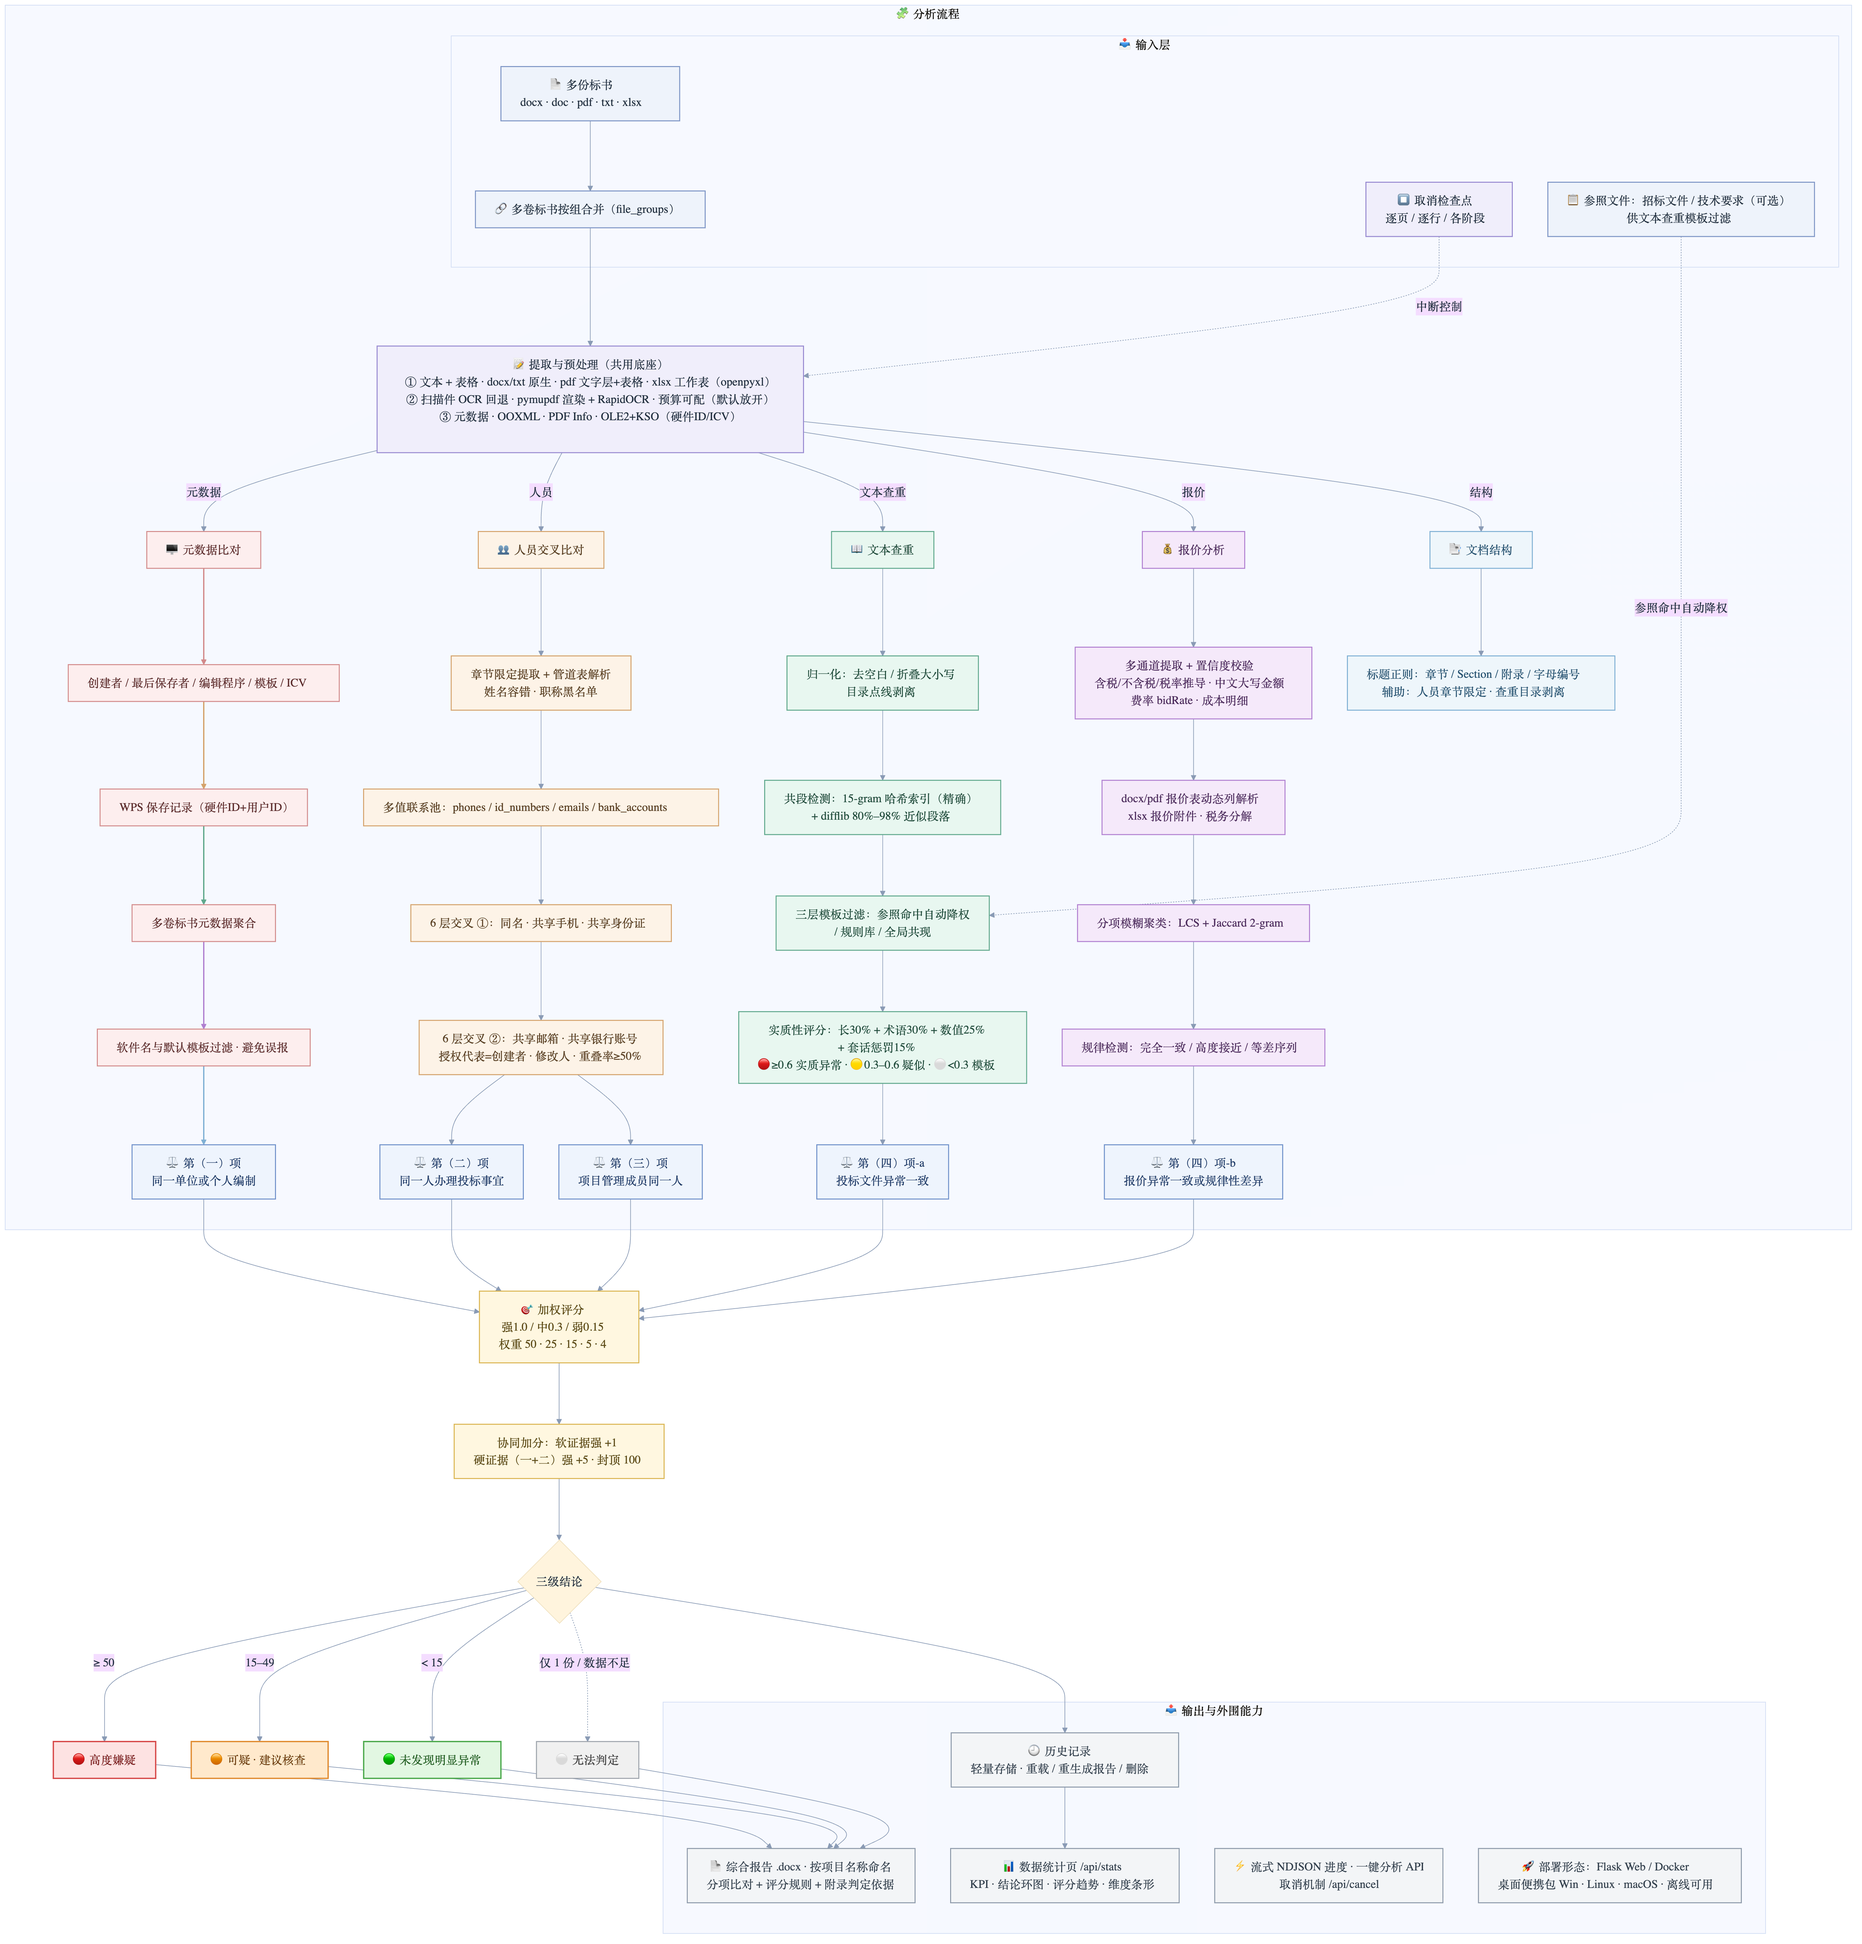
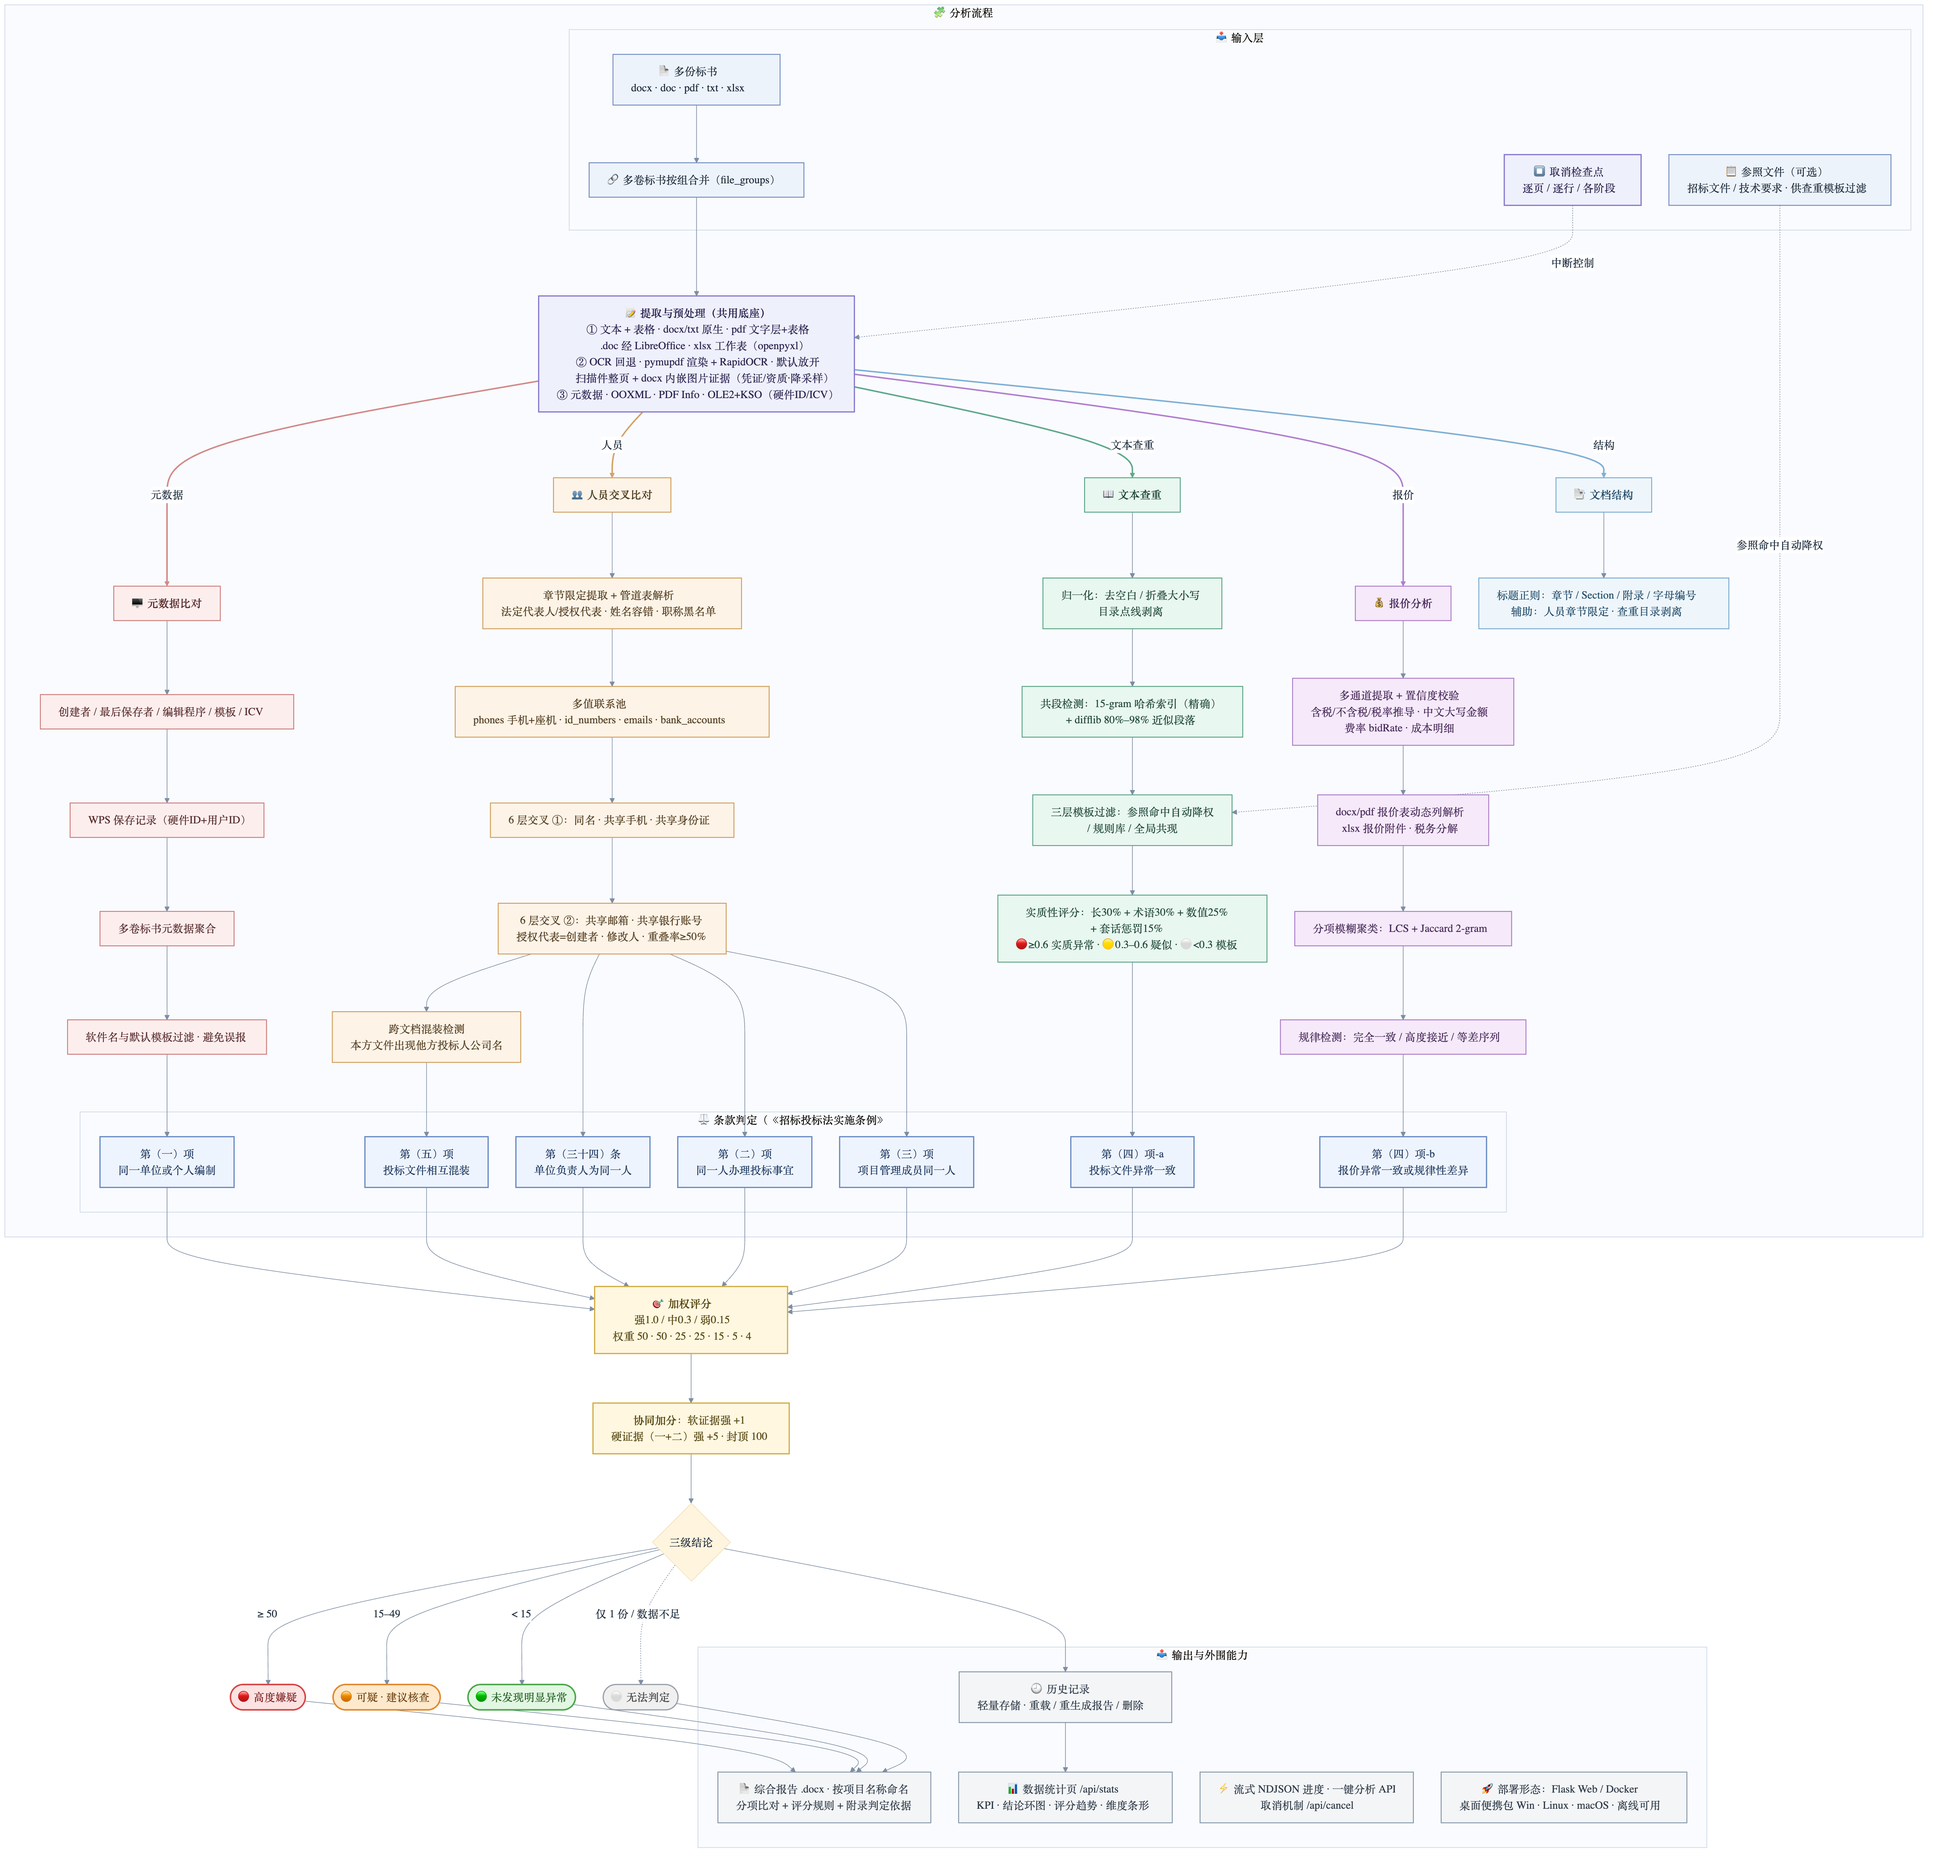
docs: 整体流程图重绘，对齐 v2.1.1 判定逻辑
- 条款判定 5→7 条：新增第（三十四）条（单位负责人同一人，权重50）
  与第（五）项（投标文件混装，权重25），权重串更新为 50·50·25·25·15·5·4
- 人员分支补混装检测节点；联系池标注手机+座机；提取补法定代表人/授权代表
- 提取底座补 .doc 经 LibreOffice 与 docx 内嵌图片证据 OCR
- 版式重画：条款归组簇、分支表头加粗、结论胶囊形、修正长行折行

diff --git a/output/整体流程图mermaid.md b/output/整体流程图mermaid.md
@@ -1,87 +1,97 @@
 ```mermaid
-%%{init: {"theme":"base","themeVariables":{"fontFamily":"PingFang SC, Microsoft YaHei, sans-serif","fontSize":"18px","lineColor":"#8a9bb5","primaryTextColor":"#22303f"},"flowchart":{"nodeSpacing":55,"rankSpacing":95,"curve":"basis","htmlLabels":true,"markdownAutoWrap":false,"wrappingWidth":600}}}%%
+%%{init: {"theme":"base","themeVariables":{"fontFamily":"PingFang SC, Hiragino Sans GB, Microsoft YaHei, sans-serif","fontSize":"18px","lineColor":"#7d8da3","primaryTextColor":"#1e2c3c","edgeLabelBackground":"#ffffff","clusterBkg":"#fafbfe","clusterBorder":"#c6d2e2"},"flowchart":{"nodeSpacing":46,"rankSpacing":82,"curve":"basis","htmlLabels":true,"markdownAutoWrap":false,"wrappingWidth":600}}}%%
 flowchart TD
     subgraph ANALYSIS["🧩 分析流程"]
         subgraph IN["📥 输入层"]
             A["📄 多份标书<br/>docx · doc · pdf · txt · xlsx"]
             A1["🔗 多卷标书按组合并（file_groups）"]
             C3["⏹ 取消检查点<br/>逐页 / 逐行 / 各阶段"]
-            B["📋 参照文件：招标文件 / 技术要求（可选）<br/>供文本查重模板过滤"]
+            B["📋 参照文件（可选）<br/>招标文件 / 技术要求 · 供查重模板过滤"]
         end
         A --> A1
         A1 --> C
         C3 -. "中断控制" .-> C
         B -. "参照命中自动降权" .-> T3
-        C["📝 提取与预处理（共用底座）<br/>① 文本 + 表格 · docx/txt 原生 · pdf 文字层+表格 · xlsx 工作表（openpyxl）<br/>② 扫描件 OCR 回退 · pymupdf 渲染 + RapidOCR · 预算可配（默认放开）<br/>③ 元数据 · OOXML · PDF Info · OLE2+KSO（硬件ID/ICV）"]
+        C["<b>📝 提取与预处理（共用底座）</b><br/>① 文本 + 表格 · docx/txt 原生 · pdf 文字层+表格<br/>　 .doc 经 LibreOffice · xlsx 工作表（openpyxl）<br/>② OCR 回退 · pymupdf 渲染 + RapidOCR · 默认放开<br/>　 扫描件整页 + docx 内嵌图片证据（凭证/资质·降采样）<br/>③ 元数据 · OOXML · PDF Info · OLE2+KSO（硬件ID/ICV）"]
 
-        M0["🖥 元数据比对"]
+        M0["<b>🖥 元数据比对</b>"]
         M1["创建者 / 最后保存者 / 编辑程序 / 模板 / ICV"]
         M2["WPS 保存记录（硬件ID+用户ID）"]
         M2b["多卷标书元数据聚合"]
         M3["软件名与默认模板过滤 · 避免误报"]
-        CL1["⚖ 第（一）项<br/>同一单位或个人编制"]
-        M0 --> M1
-        M1 --> M2
-        M2 --> M2b
-        M2b --> M3
-        M3 --> CL1
 
-        P0["👥 人员交叉比对"]
-        P1["章节限定提取 + 管道表解析<br/>姓名容错 · 职称黑名单"]
-        P2["多值联系池：phones / id_numbers / emails / bank_accounts"]
+        P0["<b>👥 人员交叉比对</b>"]
+        P1["章节限定提取 + 管道表解析<br/>法定代表人/授权代表 · 姓名容错 · 职称黑名单"]
+        P2["多值联系池<br/>phones 手机+座机 · id_numbers · emails · bank_accounts"]
         P3["6 层交叉 ①：同名 · 共享手机 · 共享身份证"]
         P4["6 层交叉 ②：共享邮箱 · 共享银行账号<br/>授权代表=创建者 · 修改人 · 重叠率≥50%"]
-        CL2["⚖ 第（二）项<br/>同一人办理投标事宜"]
-        CL3["⚖ 第（三）项<br/>项目管理成员同一人"]
-        P0 --> P1
-        P1 --> P2
-        P2 --> P3
-        P3 --> P4
-        P4 --> CL2
-        P4 --> CL3
+        P5["跨文档混装检测<br/>本方文件出现他方投标人公司名"]
 
-        T0["📖 文本查重"]
+        T0["<b>📖 文本查重</b>"]
         T1["归一化：去空白 / 折叠大小写<br/>目录点线剥离"]
         T2["共段检测：15-gram 哈希索引（精确）<br/>+ difflib 80%–98% 近似段落"]
         T3["三层模板过滤：参照命中自动降权<br/>/ 规则库 / 全局共现"]
         T4["实质性评分：长30% + 术语30% + 数值25%<br/>+ 套话惩罚15%<br/>🔴≥0.6 实质异常 · 🟡0.3–0.6 疑似 · ⚪&lt;0.3 模板"]
-        CL4["⚖ 第（四）项-a<br/>投标文件异常一致"]
-        T0 --> T1
-        T1 --> T2
-        T2 --> T3
-        T3 --> T4
-        T4 --> CL4
 
-        R0["💰 报价分析"]
+        R0["<b>💰 报价分析</b>"]
         R1["多通道提取 + 置信度校验<br/>含税/不含税/税率推导 · 中文大写金额<br/>费率 bidRate · 成本明细"]
         R2["docx/pdf 报价表动态列解析<br/>xlsx 报价附件 · 税务分解"]
         R3["分项模糊聚类：LCS + Jaccard 2-gram"]
         R4["规律检测：完全一致 / 高度接近 / 等差序列"]
-        CL5["⚖ 第（四）项-b<br/>报价异常一致或规律性差异"]
-        R0 --> R1
-        R1 --> R2
-        R2 --> R3
-        R3 --> R4
-        R4 --> CL5
 
-        S0["📑 文档结构"]
+        S0["<b>📑 文档结构</b>"]
         S1["标题正则：章节 / Section / 附录 / 字母编号<br/>辅助：人员章节限定 · 查重目录剥离"]
-        S0 --> S1
+
+        subgraph CLAUSES["⚖ 条款判定（《招标投标法实施条例》）"]
+            CL34["第（三十四）条<br/>单位负责人为同一人"]
+            CL1["第（一）项<br/>同一单位或个人编制"]
+            CL2["第（二）项<br/>同一人办理投标事宜"]
+            CL3["第（三）项<br/>项目管理成员同一人"]
+            CL5["第（五）项<br/>投标文件相互混装"]
+            CL4A["第（四）项-a<br/>投标文件异常一致"]
+            CL4B["第（四）项-b<br/>报价异常一致或规律性差异"]
+        end
 
         C -- "元数据" --> M0
         C -- "人员" --> P0
         C -- "文本查重" --> T0
         C -- "报价" --> R0
         C -- "结构" --> S0
+        M0 --> M1
+        M1 --> M2
+        M2 --> M2b
+        M2b --> M3
+        P0 --> P1
+        P1 --> P2
+        P2 --> P3
+        P3 --> P4
+        P4 --> P5
+        T0 --> T1
+        T1 --> T2
+        T2 --> T3
+        T3 --> T4
+        R0 --> R1
+        R1 --> R2
+        R2 --> R3
+        R3 --> R4
+        S0 --> S1
     end
 
-    CL1 & CL2 & CL3 & CL4 & CL5 --> SC["🎯 加权评分<br/>强1.0 / 中0.3 / 弱0.15<br/>权重 50 · 25 · 15 · 5 · 4"]
-    SC --> SY["协同加分：软证据强 +1<br/>硬证据（一+二）强 +5 · 封顶 100"]
+    M3 --> CL1
+    P4 --> CL34
+    P4 --> CL2
+    P4 --> CL3
+    P5 --> CL5
+    T4 --> CL4A
+    R4 --> CL4B
+
+    CL1 & CL34 & CL2 & CL3 & CL5 & CL4A & CL4B --> SC["<b>🎯 加权评分</b><br/>强1.0 / 中0.3 / 弱0.15<br/>权重 50 · 50 · 25 · 25 · 15 · 5 · 4"]
+    SC --> SY["<b>协同加分</b>：软证据强 +1<br/>硬证据（一+二）强 +5 · 封顶 100"]
     SY --> V{"三级结论"}
-    V -->|"≥ 50"| H["🔴 高度嫌疑"]
-    V -->|"15–49"| ME["🟠 可疑 · 建议核查"]
-    V -->|"&lt; 15"| L["🟢 未发现明显异常"]
-    V -.->|"仅 1 份 / 数据不足"| U["⚪ 无法判定"]
+    V -->|"≥ 50"| H(["🔴 高度嫌疑"])
+    V -->|"15–49"| ME(["🟠 可疑 · 建议核查"])
+    V -->|"&lt; 15"| L(["🟢 未发现明显异常"])
+    V -.->|"仅 1 份 / 数据不足"| U(["⚪ 无法判定"])
 
     subgraph OUT["📤 输出与外围能力"]
         O1["📄 综合报告 .docx · 按项目名称命名<br/>分项比对 + 评分规则 + 附录判定依据"]
@@ -94,34 +104,34 @@ flowchart TD
     V --> O2
     O2 --> O3
 
-    linkStyle 4 stroke:#d28a8a,stroke-width:2px
-    linkStyle 5 stroke:#d4a26a,stroke-width:2px
-    linkStyle 6 stroke:#5fa88c,stroke-width:2px
-    linkStyle 7 stroke:#b07fd0,stroke-width:2px
-    linkStyle 8 stroke:#7fb0d4,stroke-width:2px
+    linkStyle 4 stroke:#d28a8a,stroke-width:2.5px
+    linkStyle 5 stroke:#d4a26a,stroke-width:2.5px
+    linkStyle 6 stroke:#5fa88c,stroke-width:2.5px
+    linkStyle 7 stroke:#b07fd0,stroke-width:2.5px
+    linkStyle 8 stroke:#7fb0d4,stroke-width:2.5px
 
-    classDef inp fill:#eef3fb,stroke:#7b93c4,stroke-width:1.5px,color:#22303f
-    classDef ext fill:#f0eefb,stroke:#9688d0,stroke-width:1.5px,color:#22303f
-    classDef md fill:#fdeeee,stroke:#d28a8a,stroke-width:1.5px,color:#5b2b2b
-    classDef ps fill:#fdf3e7,stroke:#d4a26a,stroke-width:1.5px,color:#5b4226
-    classDef tx fill:#e8f7f0,stroke:#5fa88c,stroke-width:1.5px,color:#1f4a3a
-    classDef pr fill:#f5e9fa,stroke:#b07fd0,stroke-width:1.5px,color:#4b2a5b
-    classDef st fill:#eef6fb,stroke:#7fb0d4,stroke-width:1.5px,color:#24506e
-    classDef cl fill:#eef4fd,stroke:#6d8fc9,stroke-width:1.5px,color:#1f3a66
-    classDef sc fill:#fff7e0,stroke:#d9b24a,stroke-width:1.5px,color:#5b4a16
-    classDef hi fill:#fde2e2,stroke:#d64545,stroke-width:2px,color:#7a1f1f
-    classDef me fill:#ffe9cc,stroke:#e08a2e,stroke-width:2px,color:#6b3d0f
-    classDef lo fill:#e2f7e2,stroke:#4aa84a,stroke-width:2px,color:#1f5b1f
-    classDef un fill:#f0f0f0,stroke:#9aa0a8,stroke-width:1.5px,color:#444
-    classDef out fill:#f3f5f7,stroke:#8b98a8,stroke-width:1.5px,color:#33404d
+    classDef inp fill:#edf3fb,stroke:#6f8ac2,stroke-width:1.5px,color:#1e2c3c
+    classDef ext fill:#eef0fb,stroke:#8677cf,stroke-width:2px,color:#2a2350
+    classDef md fill:#fdeeee,stroke:#cc7b7b,stroke-width:1.5px,color:#572a2a
+    classDef ps fill:#fdf3e7,stroke:#cf9c58,stroke-width:1.5px,color:#574224
+    classDef tx fill:#e8f7f0,stroke:#57a385,stroke-width:1.5px,color:#1e4636
+    classDef pr fill:#f5e9fa,stroke:#a97ac8,stroke-width:1.5px,color:#472858
+    classDef st fill:#eef6fb,stroke:#78a9cf,stroke-width:1.5px,color:#224b69
+    classDef cl fill:#eef4fd,stroke:#6689c4,stroke-width:2px,color:#1d3861
+    classDef sc fill:#fff7e0,stroke:#d0ac42,stroke-width:2px,color:#574813
+    classDef hi fill:#fde2e2,stroke:#d64545,stroke-width:2.5px,color:#7a1f1f
+    classDef me fill:#ffe9cc,stroke:#e08a2e,stroke-width:2.5px,color:#6b3d0f
+    classDef lo fill:#e2f7e2,stroke:#4aa84a,stroke-width:2.5px,color:#1f5b1f
+    classDef un fill:#f0f0f0,stroke:#9aa0a8,stroke-width:2px,color:#444
+    classDef out fill:#f3f5f7,stroke:#8494a6,stroke-width:1.5px,color:#2e3a47
     class A,A1,B inp
     class C,C3 ext
     class M0,M1,M2,M2b,M3 md
-    class P0,P1,P2,P3,P4 ps
+    class P0,P1,P2,P3,P4,P5 ps
     class T0,T1,T2,T3,T4 tx
     class R0,R1,R2,R3,R4 pr
     class S0,S1 st
-    class CL1,CL2,CL3,CL4,CL5 cl
+    class CL34,CL1,CL2,CL3,CL5,CL4A,CL4B cl
     class SC,SY sc
     class H hi
     class ME me
